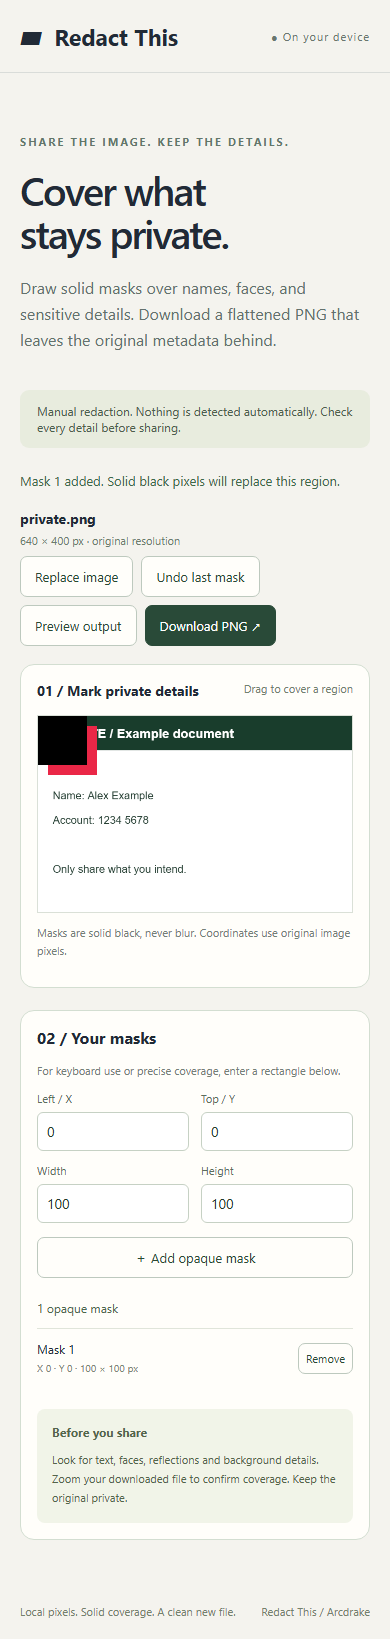
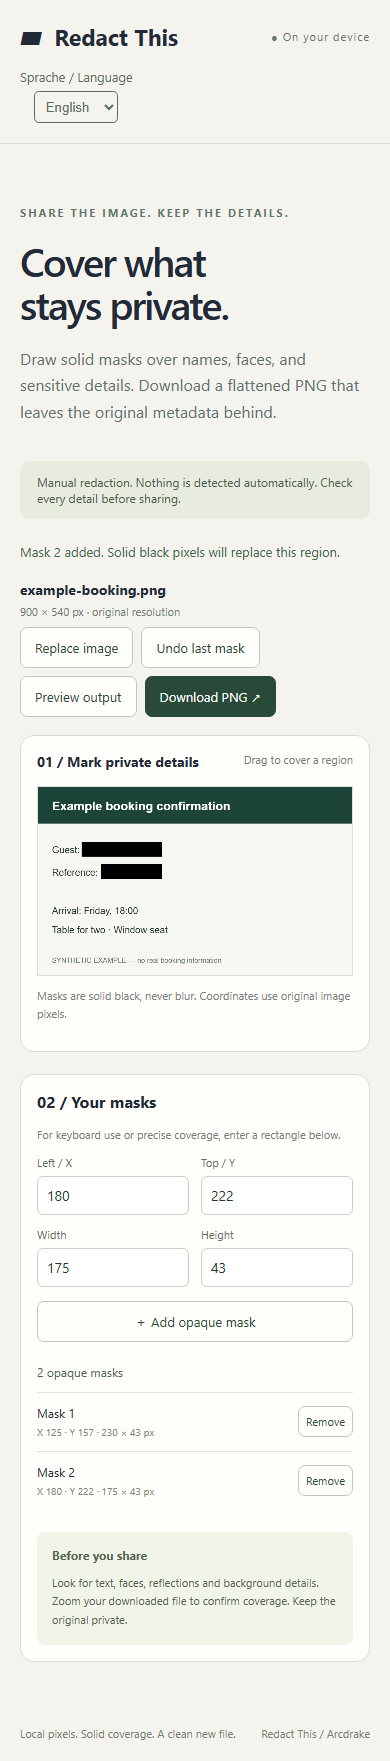
docs: improve public product documentation

diff --git a/README.md b/README.md
@@ -1,88 +1,94 @@
 # Redact This
 
-An Arcdrake browser tool for manual image redaction. Choose a still JPG, PNG or WebP, draw opaque black rectangles or enter pixel coordinates, and download a newly encoded PNG at the original resolution.
+**Cover private details in an image before you share it.**
 
-![Local desktop preview](docs/screenshots/desktop.png)
+Choose a JPG, PNG or WebP, draw solid black masks over the details you want to hide,
+then download a flattened PNG at the original resolution. Your image is processed
+in your browser and is not uploaded.
 
-[Mobile preview](docs/screenshots/mobile.png). Screenshots use synthetic examples.
+**[Open Redact This](https://tools.arcdrake.com/redact/)** ·
+[Download source](https://github.com/ArcdrakeStudios/redact-this/archive/refs/heads/main.zip) · [All Arcdrake Tools](https://tools.arcdrake.com/) ·
+[Report a bug](https://github.com/ArcdrakeStudios/redact-this/issues)
+
+![Redact This with a synthetic example image](docs/screenshots/desktop.png)
+
+[Mobile view](docs/screenshots/mobile.png). Both examples use invented information.
+
+## How to use it
+
+1. Choose a still image from your device.
+2. Drag over a name, face, number or other detail to cover it. You can also enter
+   exact pixel coordinates and dimensions for a mask.
+3. Preview the result and download the PNG.
+4. Open the downloaded file and check every detail before sharing it.
+
+Masks replace covered pixels with opaque black. There is no automatic detection:
+you decide what to cover. Original embedded metadata is not copied to the new
+image. The download name is based on the original filename; rename it if the name
+contains information you do not want to share. Keep the original file private.
+
+The interface is available in **English and German**. Use the language selector,
+or open [English](https://tools.arcdrake.com/redact/?lang=en) or
+[Deutsch](https://tools.arcdrake.com/redact/?lang=de) directly. Switching languages
+preserves the image and masks.
+
+## Privacy and supported files
+
+Image processing takes place in the current browser tab. The app has no account,
+image upload, analytics or saved editing session. Only your language preference is
+saved in browser storage. Refreshing or closing the tab clears the editing session;
+files you download remain on your device. The hosting service receives ordinary
+page requests; see the [Arcdrake Tools privacy notice](https://tools.arcdrake.com/privacy/).
+
+- Still JPG, PNG and WebP inputs; PNG output.
+- Up to 40 MB, 40 million decoded pixels and 16,384 pixels per side.
+- Up to 200 masks per image.
+- Animated PNG/WebP and SVG are rejected. PDFs are unsupported.
+
+Large images may fail to load or export on devices with limited available memory,
+even within these limits. File validation cannot guarantee support for every encoding.
+Browser checks cover Chromium and narrow layouts at 390 and 320 CSS pixels. Safari,
+Firefox, physical mobile devices and screen-reader compatibility have not been
+verified.
 
 ## Run locally
 
-Install Node.js 24 or newer. No runtime dependencies or package install
-are required. From the repository root:
+Download and extract the source ZIP, or clone this repository. Open a terminal
+in the resulting folder.
+
+Requires Node.js 24 or newer. No package installation or build step is needed:
 
 ```sh
 node scripts/serve.mjs
 ```
 
-Open http://127.0.0.1:43148. Serve modules over HTTP(S), not `file://`.
+Open http://127.0.0.1:43148. Stop the server with Ctrl+C. Serve the app over HTTP(S);
+opening `index.html` as a local file will not load its JavaScript modules.
 
-```sh
-node --test tests/*.test.mjs
-node scripts/package.mjs
-```
+## Development
 
-The package command assembles only static files and licence/notices in
-`artifacts/release/`, with a SHA-256 manifest; it does not deploy. No compilation or
-network download occurs. For browser checks, follow the locked development setup below and use `npm run test:ci`, which manages its preview server.
-
-## Limits and data
-
-You choose every region; there is no automatic detection or completeness guarantee.
-Always inspect the downloaded file before sharing. Covered pixels become opaque black;
-original embedded metadata is not copied. The download filename is derived from the
-original filename, so check and rename it if it contains identifying details.
-
-No account, application upload, analytics or saved editing session. Limits: 40 MB,
-40 million decoded pixels, 16,384 pixels per side and 200 masks. Animated PNG/WebP
-and SVG are rejected; PDFs are unsupported. Header/decoding validation does not
-promise exhaustive file-format compatibility. Refreshing clears the editing session.
-The image decoder is adapted from Shrink This Image; see the attribution in
-[third-party notices](THIRD_PARTY_NOTICES.md).
-
-Browser tests cover Chromium desktop and 390/320px layouts. Physical devices,
-screen readers, Safari and Firefox have not been tested.
-
-## Licence and feedback
-
-[MIT](LICENSE), copyright 2026 Michael Eigner-Dietl. See
-[third-party and asset notices](THIRD_PARTY_NOTICES.md). An
-[Arcdrake](https://arcdrake.com/) product. Use synthetic examples when reporting
-issues. Do not attach private data or unredacted personal images to public issues.
-[Report a bug](https://github.com/ArcdrakeStudios/redact-this/issues).
-
-## Source, support and development
-
-[Source](https://github.com/ArcdrakeStudios/redact-this) · [Issues](https://github.com/ArcdrakeStudios/redact-this/issues) · [Contributing](CONTRIBUTING.md) · [Security](SECURITY.md)
-
-Part of Arcdrake's tools collection. The planned shared home is `tools.arcdrake.com`;
-production hosting is not live as part of this source release. Local use is available
-above. Development checks use Node.js 24 and locked Playwright tooling:
+The application source is in `dist/`. Install the locked development tools to run
+the browser checks:
 
 ```sh
 npm ci
 npx playwright install chromium
 npm test
 npm run test:ci
+npm run test:i18n
 npm run package:release
 ```
 
-The CI wrapper starts and stops its own preview server. Runtime operation needs no
-package installation. [Release procedure](docs/RELEASING.md).
+Browser checks start and stop their own local server. The package command creates
+static files in `artifacts/release/` with a SHA-256 manifest; it does not deploy.
+See [packaging and self-hosting](docs/RELEASING.md),
+[contributing](CONTRIBUTING.md) and [security reporting](SECURITY.md).
 
-## Languages
+## Licence
 
-The full interface is available in German and English. Open `?lang=de` or
-`?lang=en` to choose explicitly, or use the visible language selector. An explicit
-query takes priority over the saved preference (`arcdrake-tools-language` in
-localStorage), then the browser language; other languages fall back to English.
-Only the language preference is saved. Switching preserves the current image,
-settings and output; filenames and image pixels are not translated.
+An [Arcdrake](https://arcdrake.com/) product. Free to use, modify and redistribute under the [MIT licence](LICENSE).
+The image header-validation and loading helper is adapted from [Shrink This Image](https://github.com/ArcdrakeStudios/shrink-this-image).
+See [third-party notices](THIRD_PARTY_NOTICES.md) for attribution.
 
-The collection shell can dispatch/listen for `arcdrake-language-change` with
-`detail: {language: 'de' | 'en'}`. Changes use `history.replaceState`, without a
-reload. `dist/i18n.js` must be included when serving or packaging the app.
-
-Run `npm run test:i18n` for static copy coverage, translated errors, image state
-retention, language preference/event behavior, and actual image downloads. The
-check starts a localhost server and closes its headless browser on completion.
+Feature requests are welcome in the issue tracker. To contribute an improvement,
+see [the contribution guide](CONTRIBUTING.md).

diff --git a/docs/RELEASING.md b/docs/RELEASING.md
@@ -1,22 +1,48 @@
-# Release procedure
+# Packaging and self-hosting
 
-The canonical source is https://github.com/ArcdrakeStudios/redact-this.
-The planned shared product home is `tools.arcdrake.com`; its production launch is
-separate from source publication. This repository does not automatically deploy.
+The hosted app is at [tools.arcdrake.com/redact/](https://tools.arcdrake.com/redact/).
+This repository contains its source and packaging tools. Repository CI and artifact
+preparation do not deploy the hosted app.
 
-1. Merge through the protected pull-request workflow with `verify` passing and
-   review findings resolved. Record independent review for an owner-authored PR.
-2. Dispatch **Prepare release artifact** on `main`. The `release` environment
-   requires owner approval and restricts runs to main. It repeats tests and packages
-   the checked-out SHA. The artifact is named with that SHA and retained for 30 days.
-3. Inspect the package manifest/hashes. Download and retain the artifact and manifest
-   in the deployment release archive before GitHub retention expires.
-4. Website deployment belongs to the separate infrastructure workflow. Pin this
-   public commit and artifact hash there; verify routing, security headers and user
-   journeys on the production origin. No credentials or deployment hooks live here.
-5. Keep the previous verified artifact and manifest. Roll back through the same
-   infrastructure workflow to those exact bytes, then check the live product.
+## Create a static package
 
-Do not deploy from a contributor branch, arbitrary tag or local working directory.
-Static host logs and origin-dependent browser behavior require separate deployment
-verification. The initial source publication is not evidence of a live public site.
+With Node.js 24 or newer, run from the repository root:
+
+```sh
+npm test
+npm run package:release
+```
+
+No package installation is needed for these two commands. Browser checks require
+the development setup in [CONTRIBUTING.md](../CONTRIBUTING.md).
+
+The output in `artifacts/release/` contains:
+
+- `index.html`, `style.css`, `app.js`, `i18n.js`, `image.js`, `regions.js`
+- `LICENSE` and `THIRD_PARTY_NOTICES.md`
+- `manifest.json`, listing SHA-256 hashes of the packaged files
+
+Packaging uses an explicit file list and refuses unexpected existing output files.
+No build, download or deployment takes place. The manual **Prepare release artifact**
+GitHub workflow runs checks and uploads a package identified by its source commit.
+
+## Self-host
+
+Publish the contents of `artifacts/release/` to a static HTTPS host. Do not publish
+the repository root, development dependencies or test outputs. Keep the licence
+and attribution notices with redistributed copies.
+
+The app uses relative asset URLs and can run at a domain root or beneath a
+directory such as `/redact/`. Redirect a directory URL without a trailing slash
+to its trailing-slash form. Serve JavaScript, CSS and HTML with the correct MIME
+types. No backend, database or application secrets are required.
+
+Deploy all files together and avoid immutable caching for unversioned asset names.
+The HTML includes a Content Security Policy; configure response headers appropriate
+to your host, including `X-Content-Type-Options: nosniff` and
+`Referrer-Policy: no-referrer`. Document hosting access logs in your privacy notice.
+
+After deployment, open the page in both languages, redact a synthetic image,
+download it and inspect its pixels and dimensions. Check narrow layouts and the
+browser console for loading errors. Keep the preceding complete package if you
+need to roll back.

diff --git a/CONTRIBUTING.md b/CONTRIBUTING.md
@@ -1,35 +1,46 @@
 # Contributing
 
-Please open an issue before a substantial change. Small, focused fixes are welcome.
-Fork the repository, create a branch and submit a pull request against `main`.
-Use synthetic inputs in reports, screenshots and tests; do not post private data.
+Small, focused fixes are welcome. Please open an issue before starting a substantial
+change so its scope can be discussed. Fork the repository, create a branch and
+submit a pull request against `main`.
 
-Use Node.js 24. Install development tools with `npm ci`, then run:
+Use synthetic examples in reports, screenshots and tests. Do not attach private
+images or personal information. Report security vulnerabilities through the private
+channel described in [SECURITY.md](SECURITY.md).
+
+## Development setup
+
+Use Node.js 24 or newer:
 
 ```sh
+npm ci
 npx playwright install chromium
 npm test
 npm run test:ci
+npm run test:i18n
 npm run package:release
 ```
 
-On Linux, `npx playwright install --with-deps chromium` installs required browser
-libraries. CI uses disposable GitHub-hosted runners. Maintainer approval is needed
-before an outside contributor's workflow runs; approval is not a code review.
+On Linux, use `npx playwright install --with-deps chromium` to install browser
+system libraries as well. Browser checks start and stop their own local server.
+Packaging creates local static files and does not deploy them.
 
-Keep the app dependency-light and preserve its documented privacy and scope.
-Include a regression check for behavioral fixes and explain verification limits.
-Review must cover code, public copy, dependency rights and screenshots. Contributions
-are provided under the repository's MIT license. Be respectful and constructive.
+## Preparing a pull request
 
-## Maintainer workflow
+Explain the problem, the change and how you checked it. Include a regression check
+for behavioral fixes and mention any checks you could not run. Update documentation
+and screenshots when the user experience changes.
 
-Main requires a pull request, passing `verify` CI, resolved conversations and linear
-history. Squash merge approved changes. Force pushes and branch deletion are blocked.
-CODEOWNERS assigns review to @SirDragonheart. A separate review rule requires one
-approval, with a PR-only exception for the owner account: founder-authored PRs must
-record independent Claude review and resolved findings before that exception is used.
-The exception does not bypass CI or permit direct pushes. GitHub enforces the checks;
-the independent-review evidence requirement is a maintainer procedure.
+Keep dependencies small and preserve the documented privacy behavior. Include
+licence and attribution information when adding third-party material. Public text
+should help users or contributors understand the product.
 
-See [release procedure](docs/RELEASING.md) and [security reporting](SECURITY.md).
+Pull requests must pass the required CI check before merging. Contributor pull
+requests are reviewed by a maintainer.
+Some contributor workflow runs require maintainer approval. Be respectful and
+constructive. Contributions are made under the repository's [MIT licence](LICENSE).
+
+See [language integration](docs/LOCALIZATION.md) when changing interface text or coordinating language within the same page.
+
+Accepted changes can be included in future updates to the hosted app. Deployment
+is managed separately from pull request merging.

diff --git a/docs/LOCALIZATION.md b/docs/LOCALIZATION.md
@@ -1,0 +1,21 @@
+# Language integration
+
+The interface supports German and English. Language selection follows this order:
+
+1. A valid `?lang=de` or `?lang=en` query.
+2. The saved `arcdrake-tools-language` preference in localStorage.
+3. German when the browser language begins with `de`; otherwise English.
+
+Language changes update the query with `history.replaceState` without reloading
+the page. The app preserves the current image, settings and result. It does not
+translate filenames or image pixels. Only the language preference is stored.
+
+A script running in the same page, such as site navigation, can dispatch or listen
+for the `arcdrake-language-change` event on `window`. This event does not cross iframe boundaries. Its detail is
+`{ language: 'de' }` or `{ language: 'en' }`. The interface text and event handling
+are implemented in `dist/i18n.js`, which must be included when self-hosting.
+
+Run `npm run test:i18n` after following the development setup in
+[CONTRIBUTING.md](../CONTRIBUTING.md). It checks translated copy and errors, language
+preferences, event handling, state preservation and real downloads. It manages
+its own local server and browser.

diff --git a/THIRD_PARTY_NOTICES.md b/THIRD_PARTY_NOTICES.md
@@ -10,7 +10,7 @@ Node.js and Playwright/Chromium are development/test tools, not included in the
 static release. Their own distributions retain their respective upstream licences.
 Do not copy installed runtimes or browser binaries into a product release.
 
-`dist/image.js` adapts image header validation and decoding from
+`dist/image.js` adapts image header validation and loading from
 [Shrink This Image](https://github.com/ArcdrakeStudios/shrink-this-image),
 copyright 2026 Michael Eigner-Dietl, licensed under MIT. Compression functionality
 is not included in this adapted helper.

diff --git a/.github/pull_request_template.md b/.github/pull_request_template.md
@@ -1,11 +1,14 @@
 ## Problem and change
 
+Describe the user problem and how this change addresses it.
+
 ## Verification
 
-## Privacy, security and dependency impact
+Describe the checks you ran and any remaining limitations.
 
-- [ ] Tests pass and limitations are stated.
+## Checklist
+
+- [ ] Relevant checks pass.
 - [ ] Examples and screenshots contain no private information.
 - [ ] Documentation matches the behavior.
-
-## Independent review evidence (required for owner review exception)
+- [ ] Any privacy, security or dependency changes are explained.

diff --git a/.github/ISSUE_TEMPLATE/bug_report.md b/.github/ISSUE_TEMPLATE/bug_report.md
@@ -12,8 +12,10 @@ assignees: ""
 
 ## Steps to reproduce
 
+## Hosted app or self-hosted copy?
+
 ## Browser and version
 
 ## Screenshots (remove private information)
 
-For security vulnerabilities, use SECURITY.md instead.
+For security vulnerabilities, use [private security reporting](https://github.com/ArcdrakeStudios/redact-this/security/advisories/new) instead.
